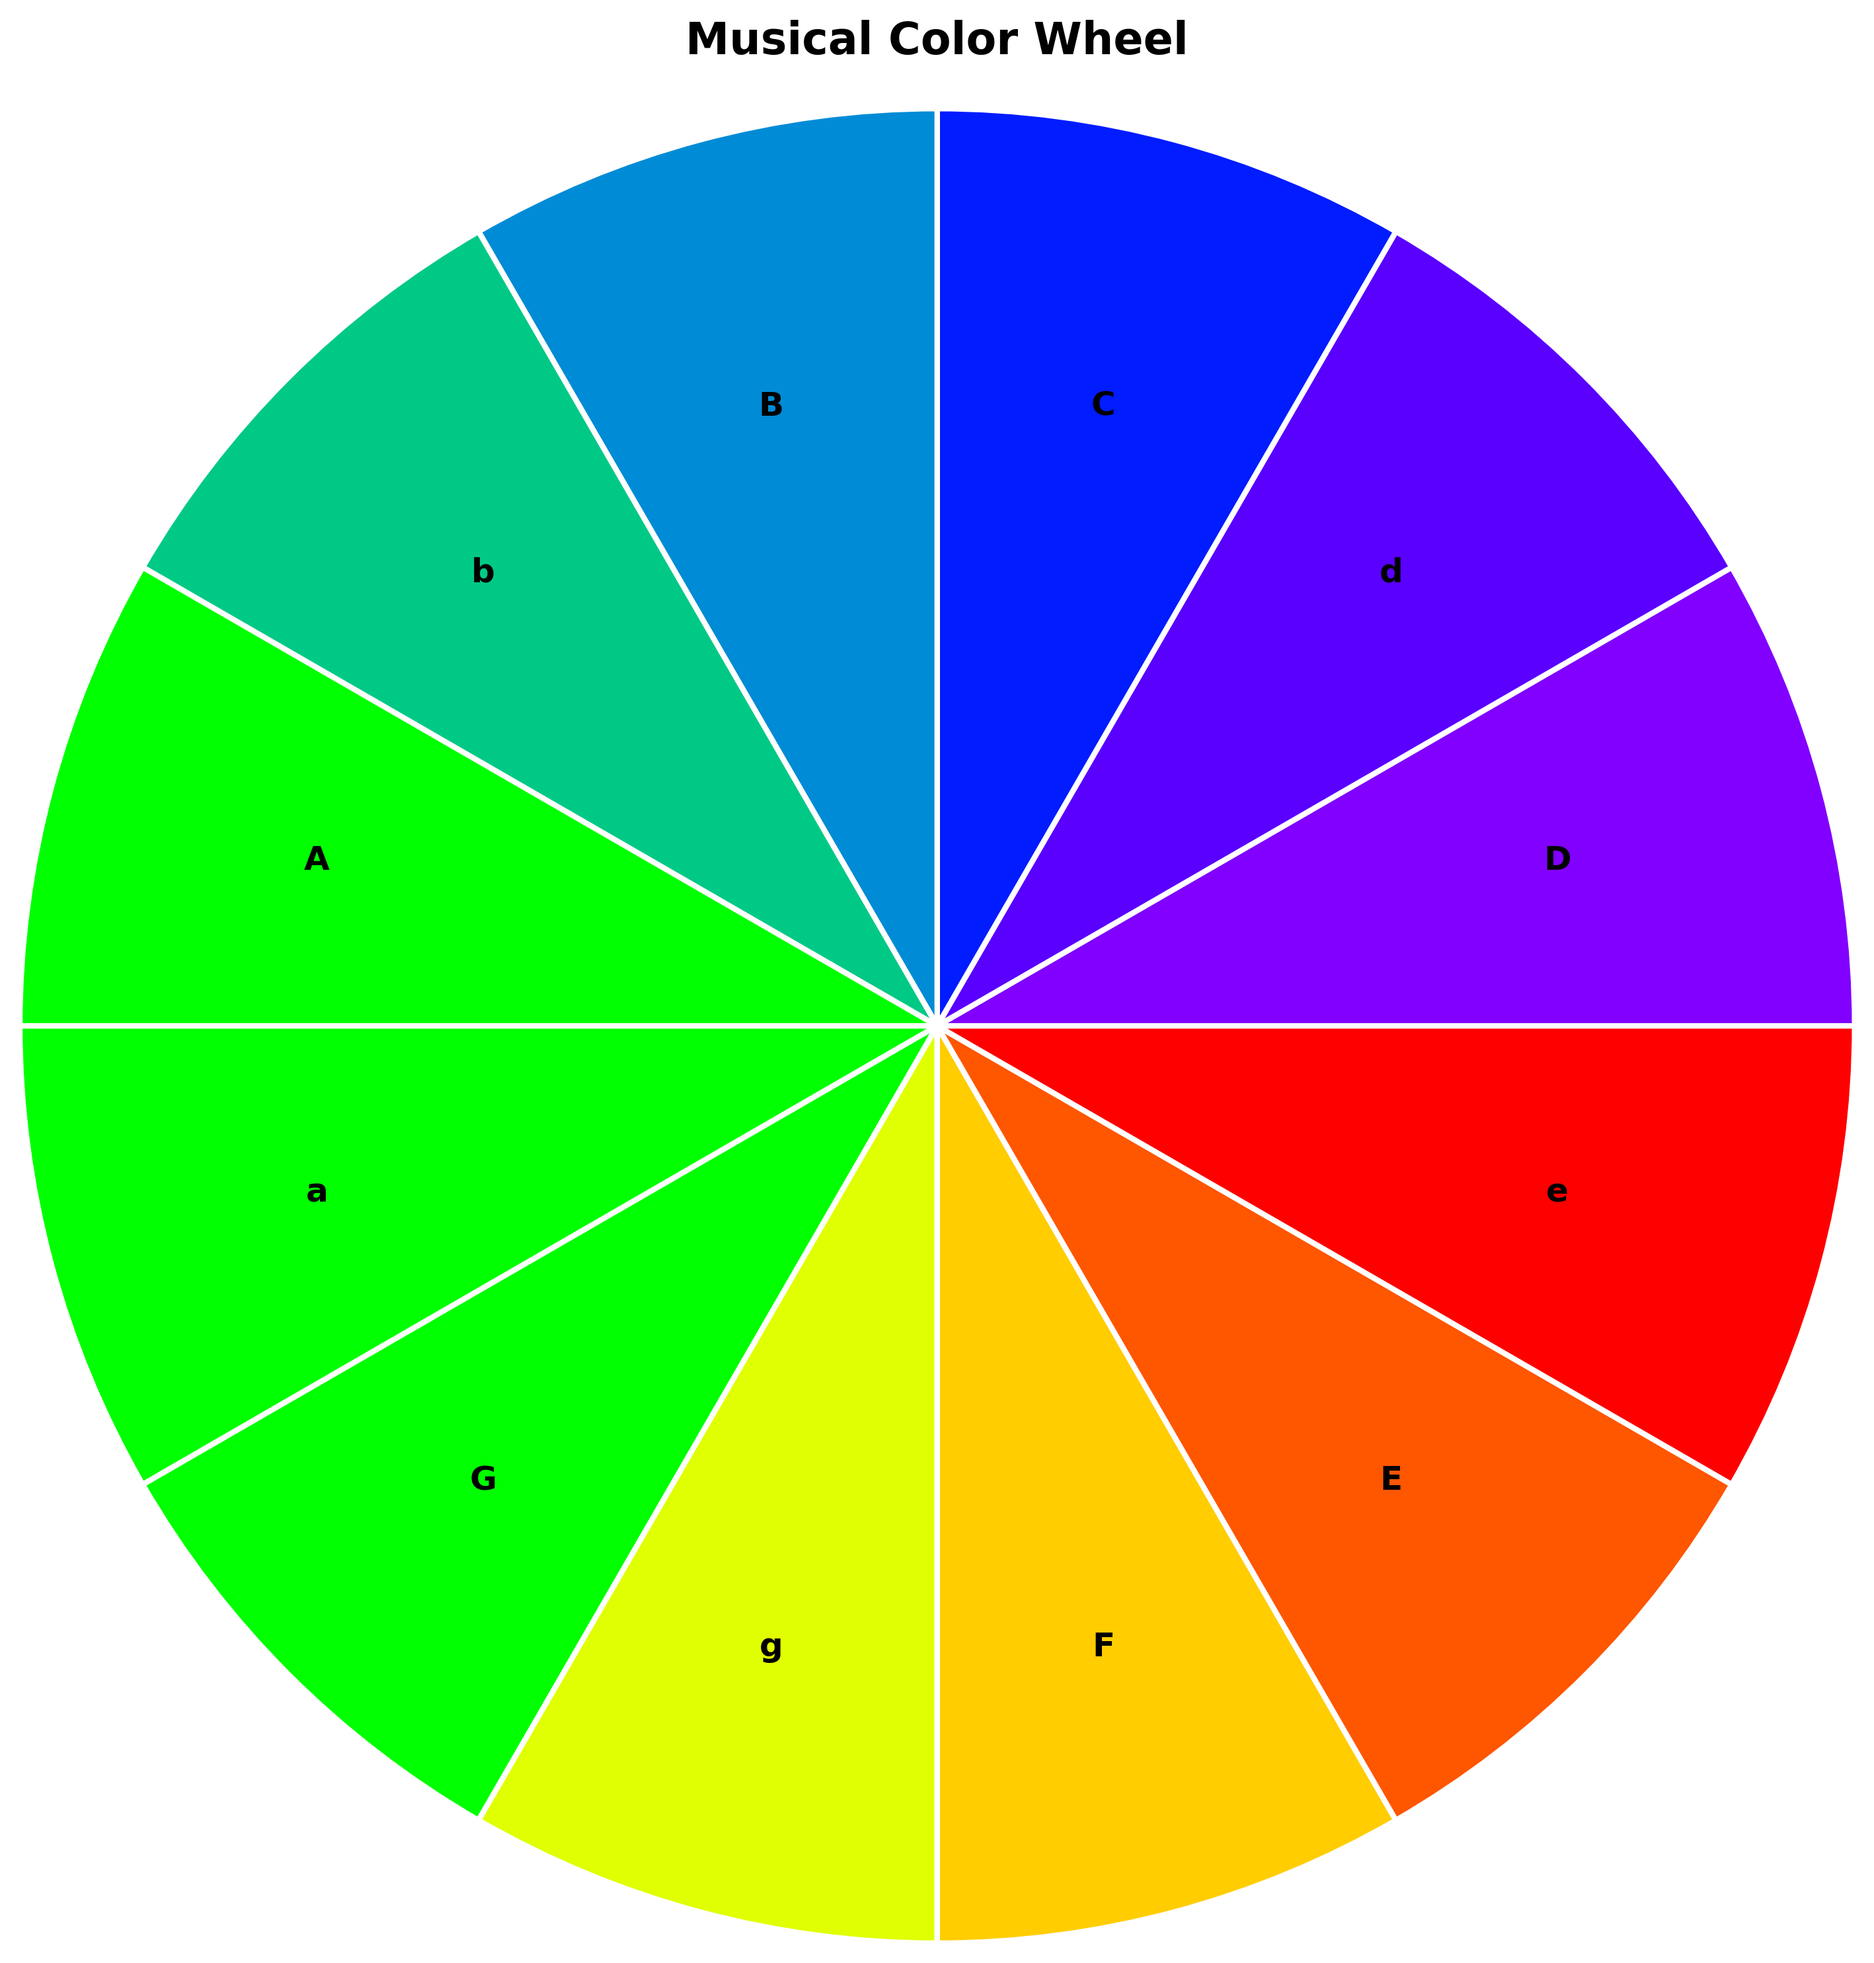
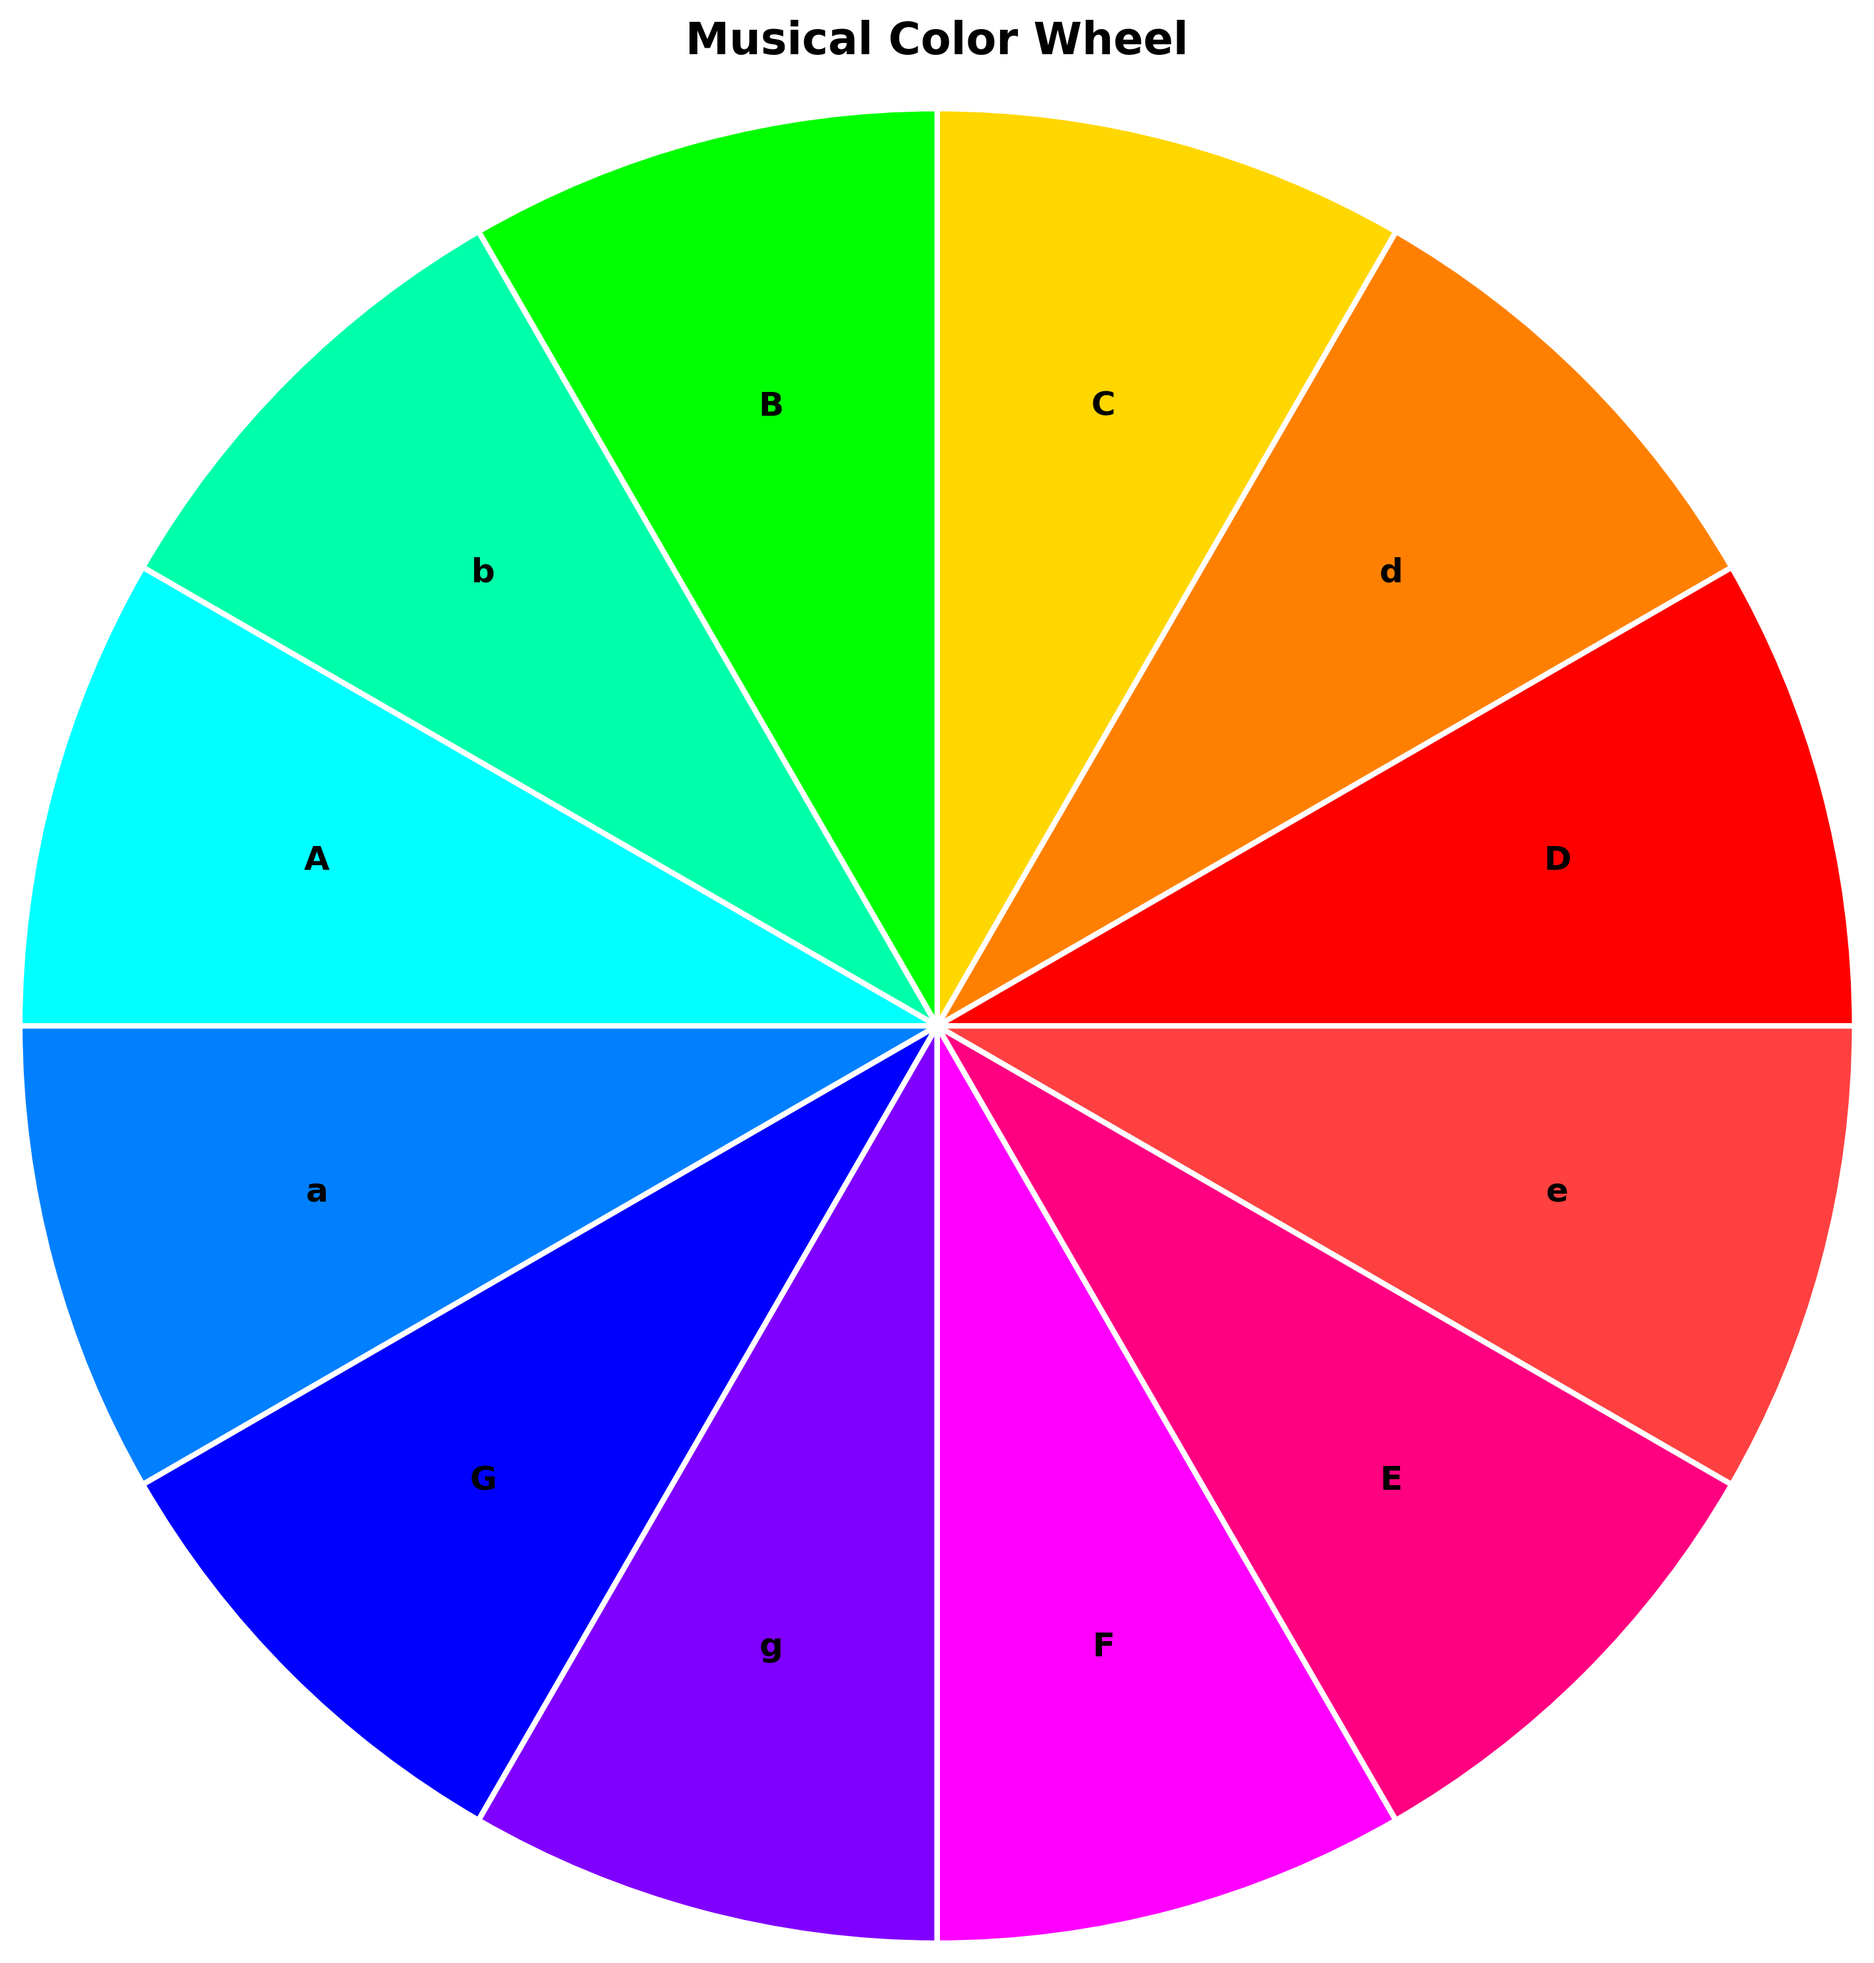
Fix backend and frontend communication issues

diff --git a/frontend/src/api/client.js b/frontend/src/api/client.js
@@ -4,11 +4,18 @@ const API_BASE_URL = 'http://localhost:5000'
 export const apiClient = {
   async post(endpoint, data, options = {}) {
     const url = `${API_BASE_URL}${endpoint}`
-    const response = await fetch(url, {
+    const isFormData = data instanceof FormData
+    
+    const fetchOptions = {
       method: 'POST',
-      ...options,
-      body: data
-    })
+      headers: isFormData ? {} : {
+        'Content-Type': 'application/json',
+        'Accept': 'application/json'
+      },
+      body: isFormData ? data : JSON.stringify(data)
+    }
+
+    const response = await fetch(url, fetchOptions)
     
     if (!response.ok) {
       throw new Error(`API call failed: ${response.statusText}`)
@@ -19,10 +26,15 @@ export const apiClient = {
 
   async get(endpoint, options = {}) {
     const url = `${API_BASE_URL}${endpoint}`
-    const response = await fetch(url, {
-      method: 'GET',
-      ...options
-    })
+    const fetchOptions = {
+      headers: {
+        'Accept': 'application/json',
+      },
+      ...options,
+      method: 'GET'
+    }
+
+    const response = await fetch(url, fetchOptions)
     
     if (!response.ok) {
       throw new Error(`API call failed: ${response.statusText}`)

diff --git a/frontend/src/components/TopPanel.vue b/frontend/src/components/TopPanel.vue
@@ -141,13 +141,9 @@ async function handleFileUpload(type) {
       const { vocalPath, bgmPath } = await apiClient.post('/api/separate', formData)
       
       // Now process the vocal track for notes
-      const noteData = await apiClient.post('/api/sheet', {
-        path: vocalPath
-      }, {
-        headers: { 'Content-Type': 'application/json' }
-      })
+      // const noteData = await apiClient.post('/api/sheet', { path: vocalPath })
       
-      musicStore.loadNotes(noteData.notes)
+      musicStore.loadNotes([])
       musicStore.setBGMPath(bgmPath)
     } else {
       const data = await apiClient.post('/api/upload', formData)

diff --git a/backend/utils/color_scale.py b/backend/utils/color_scale.py
@@ -1,6 +1,7 @@
 import numpy as np
 import matplotlib.pyplot as plt
 import matplotlib.patches as patches
+import plotly.express as px
 import colour
 
 def rgb_to_wavelength(R, G, B):
@@ -48,13 +49,37 @@ def wavelength_to_rgb(wavelength_nm):
     return (np.clip(rgb, 0, 1) * 255).astype(int)
 
 def get_note_colors():
-    """Get RGB colors for 12 notes starting from D4."""
-
+    """Get colors for each note in the chromatic scale."""
     notes = ['D', 'd', 'C', 'B', 'b', 'A', 'a', 'G', 'g', 'F', 'E', 'e']
 
-    # colors = wavelength_to_rgb(np.linspace(440, 622, 12))
-    colors = wavelength_to_rgb(np.logspace(np.log10(440), np.log10(622), 12))
+    # Custom color palette designed for musical notes
+    # Using a combination of warm and cool colors with good contrast
+    hex_colors = [
+        '#FF0000',  # Bright Red
+        '#FF8000',  # Orange
+        '#FFD700',  # Gold
+        '#00FF00',  # Bright Green
+        '#00FFAA',  # Spring Green
+        '#00FFFF',  # Cyan
+        '#0080FF',  # Sky Blue
+        '#0000FF',  # Blue
+        '#8000FF',  # Purple
+        '#FF00FF',  # Magenta
+        '#FF0080',  # Pink
+        '#FF4040',  # Light Red
+    ]
     
+    colors = []
+    for color in hex_colors:
+        # Convert hex to RGB
+        color = color.lstrip('#')
+        r = int(color[0:2], 16)
+        g = int(color[2:4], 16)
+        b = int(color[4:6], 16)
+        colors.append((r, g, b))
+
+    # colors = wavelength_to_rgb(np.logspace(np.log10(440), np.log10(622), 12))
+
     return list(zip(notes, colors))
 
 def visualize_color_wheel(colors):

diff --git a/backend/app.py b/backend/app.py
@@ -16,7 +16,17 @@ import json
 logging.basicConfig(level=logging.INFO)
 
 app = Flask(__name__)
-CORS(app, resources={r"/*": {"origins": "*"}})  # Allow all origins during development
+
+# Enable CORS for all routes
+CORS(app)
+
+# Add CORS headers to all responses
+@app.after_request
+def after_request(response):
+    response.headers.add('Access-Control-Allow-Origin', '*')
+    response.headers.add('Access-Control-Allow-Headers', 'Content-Type,Authorization')
+    response.headers.add('Access-Control-Allow-Methods', 'GET,PUT,POST,DELETE,OPTIONS')
+    return response
 
 UPLOAD_FOLDER = Path('uploads')
 UPLOAD_FOLDER.mkdir(exist_ok=True)
@@ -161,8 +171,8 @@ def separate_audio():
 
             outputs = separator.separate(
                 str(input_path),
-                primary_output_name=bgm_path.stem,
-                secondary_output_name=vocal_path.stem
+                primary_output_name=bgm_path.stem.split('.')[0],
+                secondary_output_name=vocal_path.stem.split('.')[0]
             )
 
             logging.info("Separation completed: %s", outputs)
